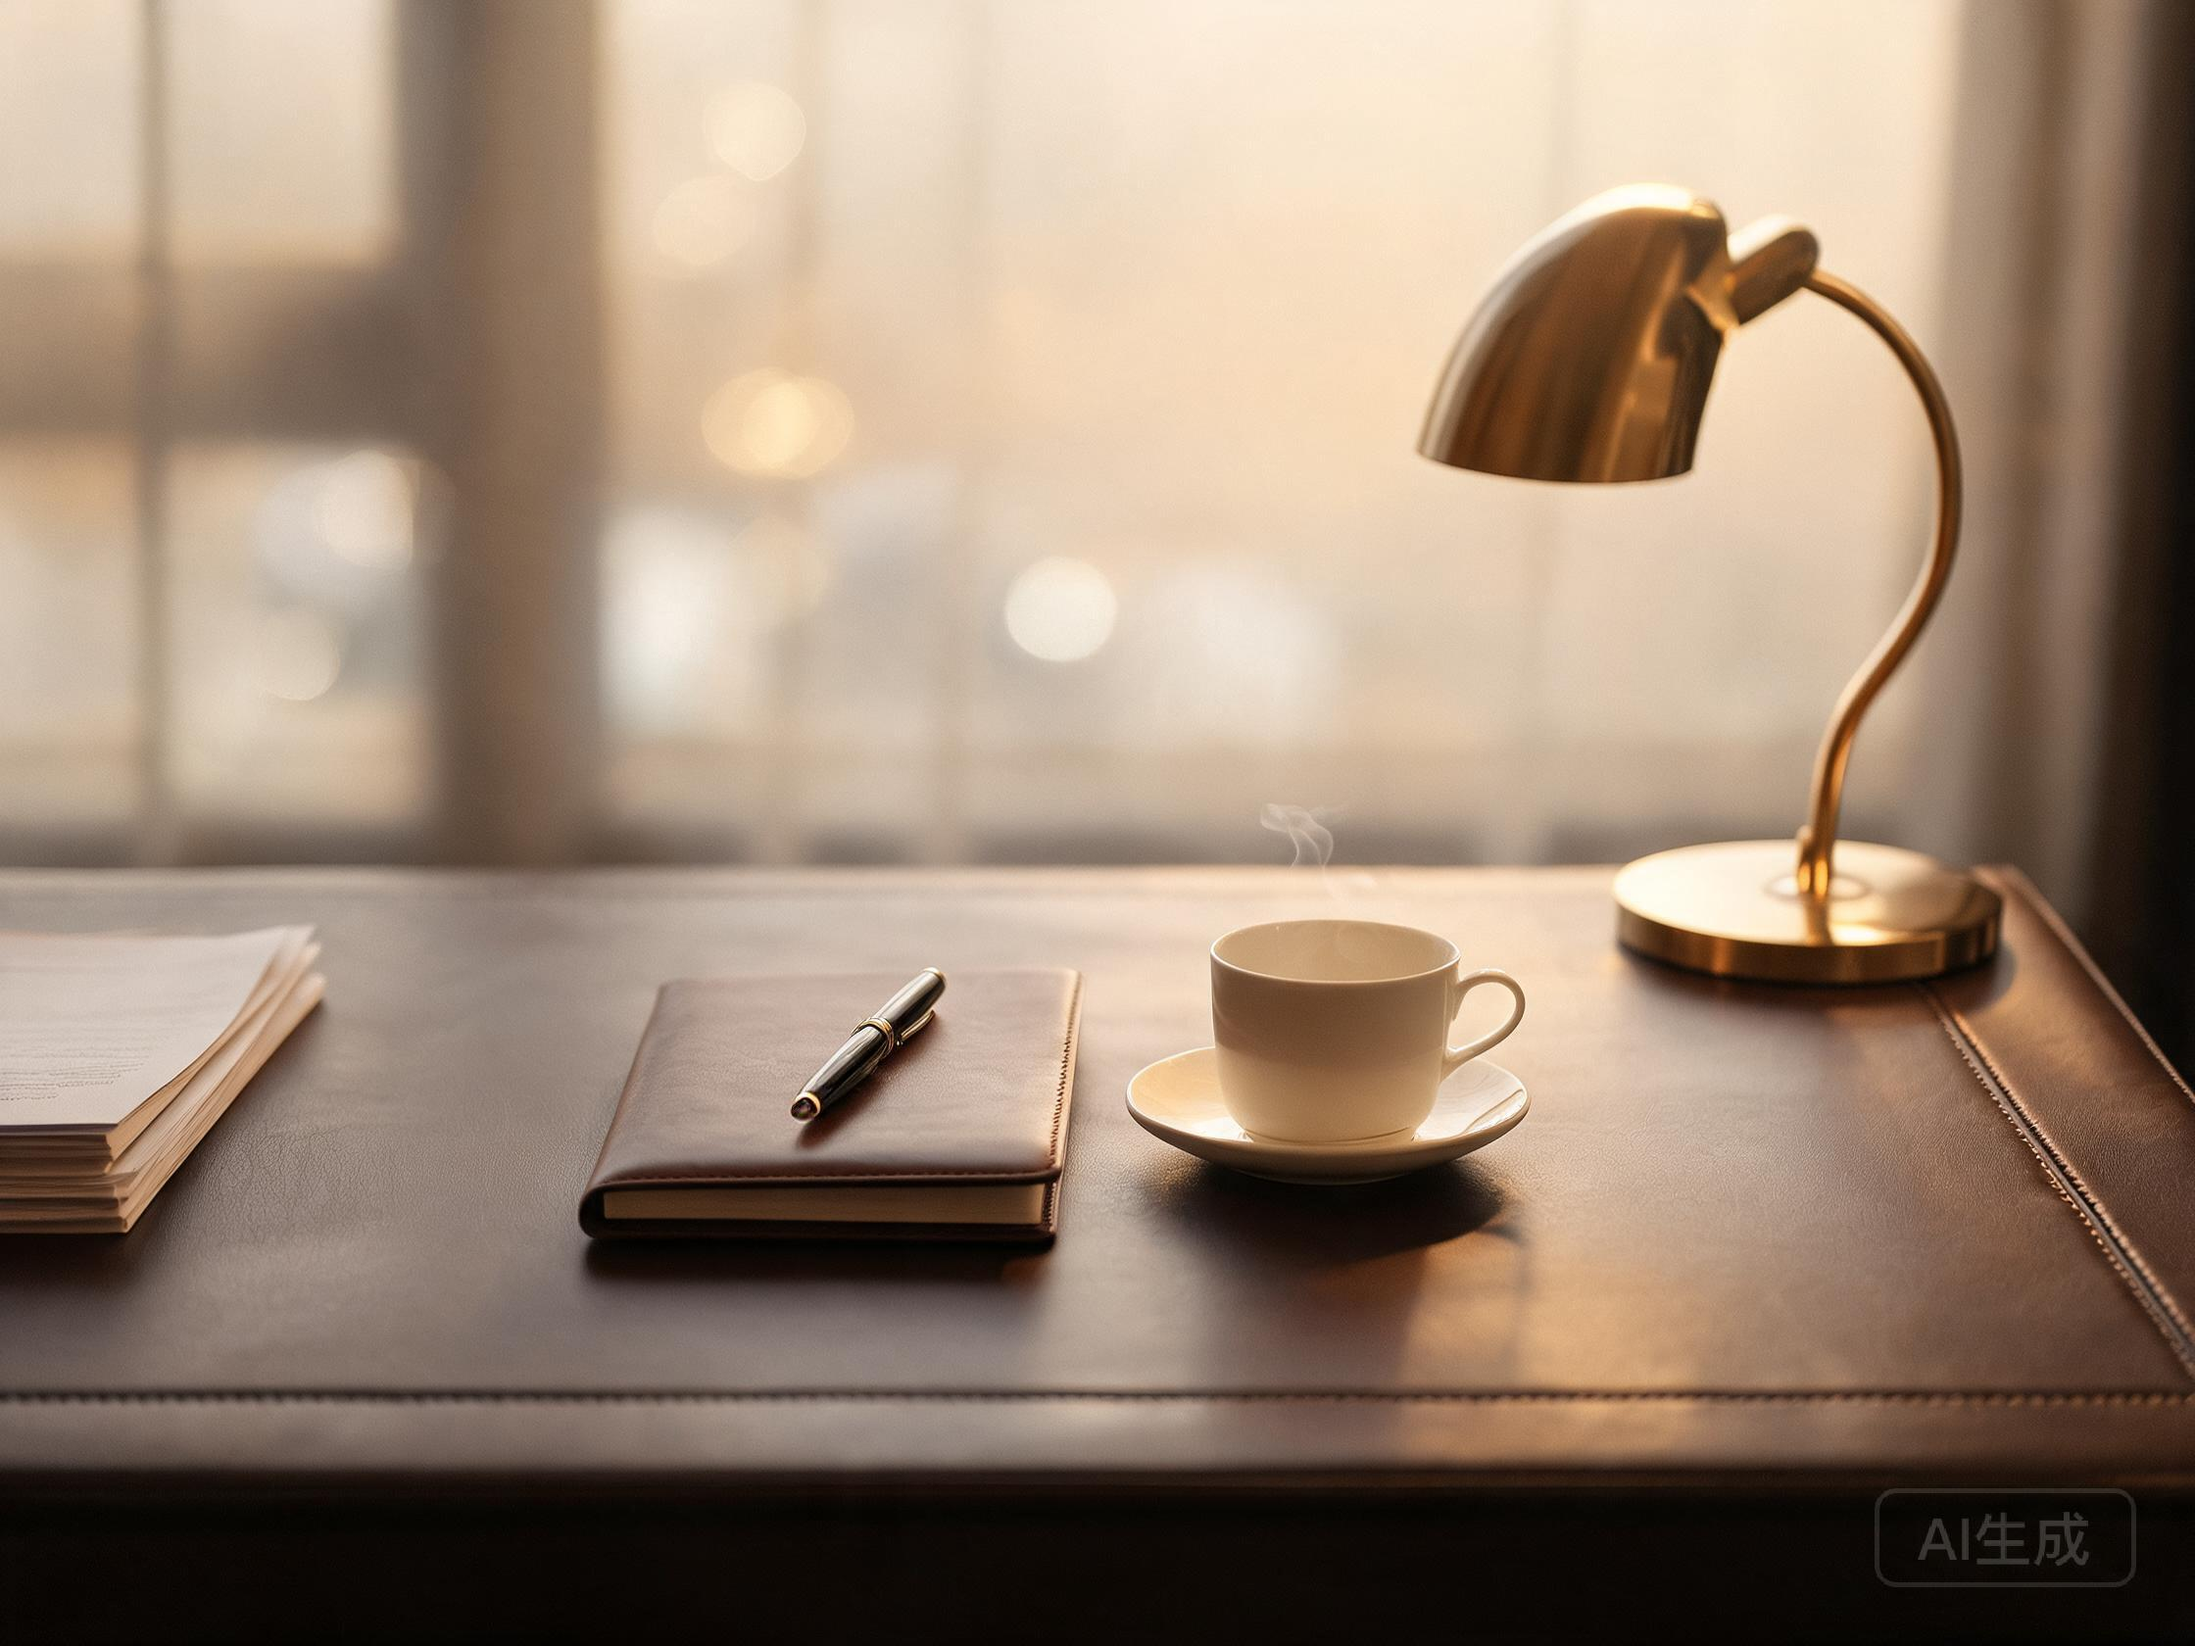
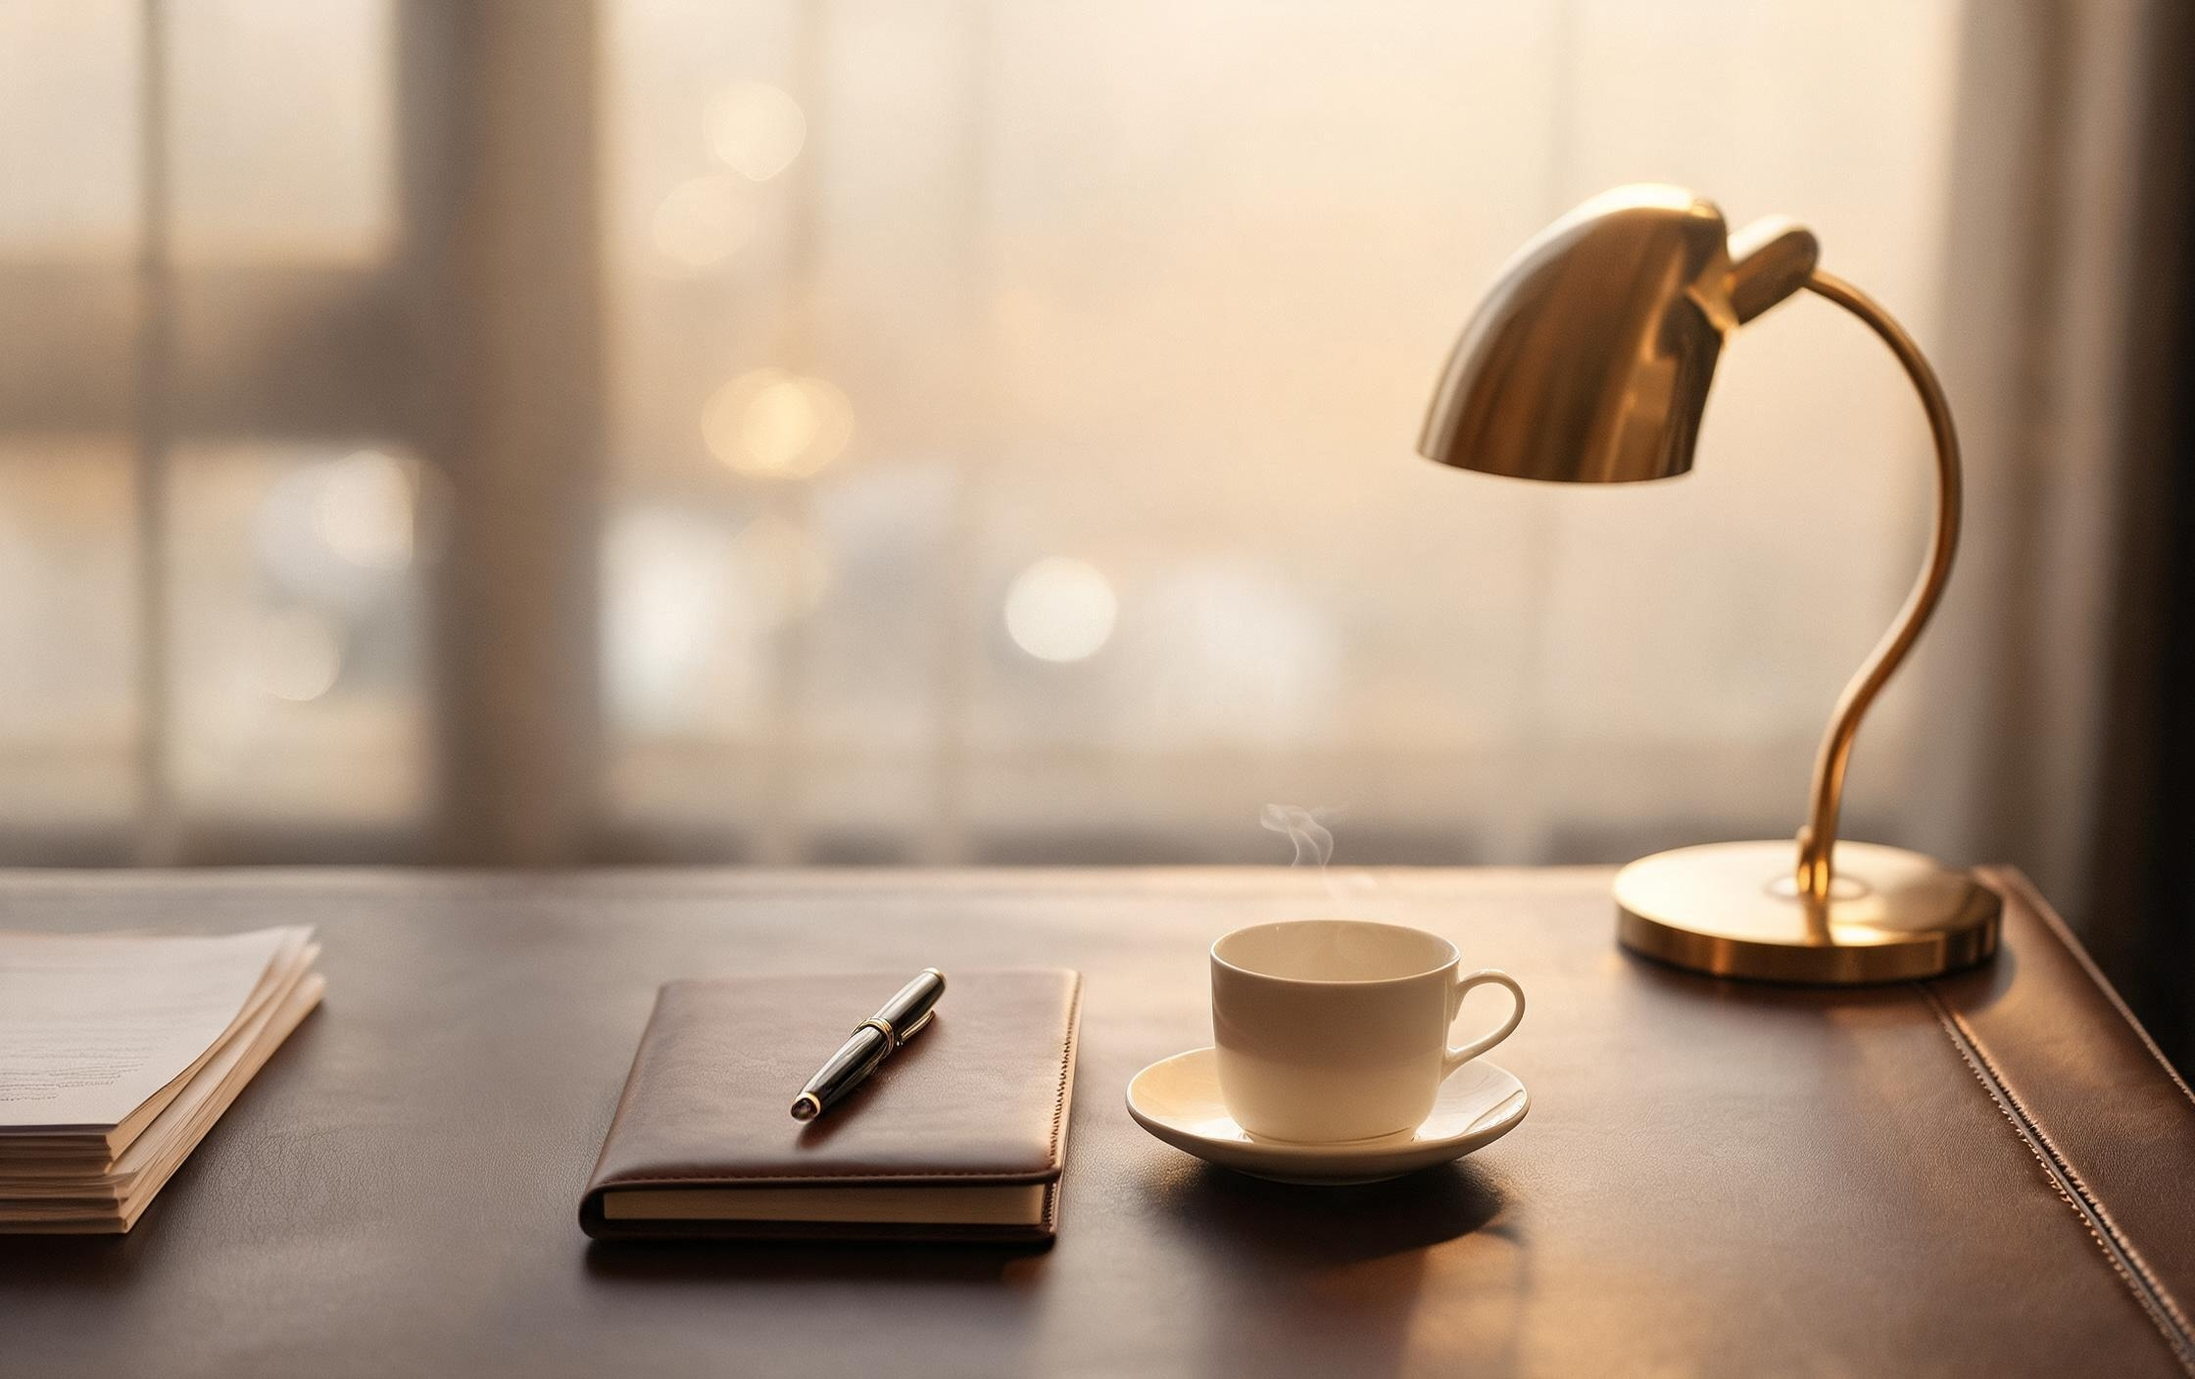
feat: 去掉 6 张图的 AI 生成水印（裁底部 10%）；首页 RECENT EXHIBITIONS 轮播加小圆点指示器

diff --git a/index.html b/index.html
@@ -12,7 +12,7 @@
   <link rel="preconnect" href="https://fonts.gstatic.com" crossorigin />
   <link href="https://fonts.googleapis.com/css2?family=Cormorant+Garamond:wght@400;500;600;700&family=Playfair+Display:wght@400;500;600;700&family=Noto+Serif+SC:wght@300;400;500;600;700&family=Noto+Sans+SC:wght@300;400;500;700&family=Jost:wght@300;400;500;600&display=swap" rel="stylesheet" />
 
-  <link rel="stylesheet" href="css/style.css?v=20261040" />
+  <link rel="stylesheet" href="css/style.css?v=20261041" />
 </head>
 <body>
   <a class="skip-link" href="#main">跳至主要内容</a>
@@ -353,6 +353,10 @@
               <a href="contact.html" class="exhibition-link">查看回顾 →</a>
             </div>
           </article>
+        </div>
+        <div class="exhibition-dots" id="exhibitionDots" role="tablist" aria-label="展会轮播选择">
+          <button class="exhibition-dot active" role="tab" aria-selected="true" aria-label="第 1 场"></button>
+          <button class="exhibition-dot" role="tab" aria-selected="false" aria-label="第 2 场"></button>
         </div>
         </div>
       </div>
@@ -745,7 +749,7 @@
       });
     })();
   </script>
-  <script src="js/main.js?v=20261040"></script>
+  <script src="js/main.js?v=20261041"></script>
   <script>
     (function () {
       var carousels = document.querySelectorAll('.contact-carousel');

diff --git a/product-detail.html b/product-detail.html
@@ -11,7 +11,7 @@
   <link rel="preconnect" href="https://fonts.gstatic.com" crossorigin />
   <link href="https://fonts.googleapis.com/css2?family=Cormorant+Garamond:wght@400;500;600;700&family=Playfair+Display:wght@400;500;600;700&family=Noto+Serif+SC:wght@300;400;500;600;700&family=Noto+Sans+SC:wght@300;400;500;700&family=Jost:wght@300;400;500;600&display=swap" rel="stylesheet" />
 
-  <link rel="stylesheet" href="css/style.css?v=20261040" />
+  <link rel="stylesheet" href="css/style.css?v=20261041" />
 </head>
 <body>
   <a class="skip-link" href="#main">跳至主要内容</a>
@@ -305,7 +305,7 @@
     </div>
   </footer>
 
-  <script src="js/main.js?v=20261040"></script>
+  <script src="js/main.js?v=20261041"></script>
   <!-- 灯箱 -->
   <div class="detail-lightbox" id="lightbox" onclick="closeLightbox(event)">
     <button class="lb-close" type="button" aria-label="关闭" onclick="closeLightbox(event)">&#10005;</button>
@@ -319,7 +319,7 @@
       <span class="lb-zoom-info" id="lbZoomInfo">100%</span>
     </div>
   </div>
-  <script src="js/main.js?v=20261040"></script>
+  <script src="js/main.js?v=20261041"></script>
   <script src="js/products-db.js?v=20261036"></script>
   <script>
     var detailImages = [];

diff --git a/js/main.js b/js/main.js
@@ -95,6 +95,7 @@
   var exList = doc.getElementById("exhibitionList");
   if (exList) {
     var exItems = exList.querySelectorAll(".exhibition-item");
+    var exDots = doc.querySelectorAll(".exhibition-dot");
     var exPrev = doc.getElementById("exhibitionPrev");
     var exNext = doc.getElementById("exhibitionNext");
     var exIndex = 0;
@@ -103,6 +104,10 @@
     function showExhibition(idx) {
       exIndex = idx;
       exList.style.transform = "translateX(-" + idx * 100 + "%)";
+      exDots.forEach(function (dot, i) {
+        dot.classList.toggle("active", i === idx);
+        dot.setAttribute("aria-selected", i === idx ? "true" : "false");
+      });
     }
 
     function restartExTimer() {
@@ -146,6 +151,13 @@
         exTouchX = null;
         restartExTimer();
       }, { passive: true });
+
+      exDots.forEach(function (dot, i) {
+        dot.addEventListener("click", function () {
+          showExhibition(i);
+          restartExTimer();
+        });
+      });
 
       /* 暂停自动轮播：鼠标悬停时 */
       var exSlider = doc.getElementById("exhibitionSlider");

diff --git a/css/style.css b/css/style.css
@@ -3308,6 +3308,33 @@ address { font-style: normal; }
 }
 /* RECENT EXHIBITIONS 翻页按钮 */
 #exhibition .grid-nav-btn svg { stroke-width: 2.4; }
+/* RECENT EXHIBITIONS 小圆点指示器 */
+.exhibition-dots {
+  display: flex;
+  justify-content: center;
+  gap: 7px;
+  margin-top: clamp(20px, 2.5vw, 32px);
+  margin-bottom: 8px;
+}
+.exhibition-dot {
+  width: 7px;
+  height: 7px;
+  padding: 0;
+  border-radius: 50%;
+  border: 1px solid rgba(84, 64, 40, 0.38);
+  background: transparent;
+  cursor: pointer;
+  transition: background var(--dur) var(--ease), border-color var(--dur) var(--ease);
+}
+.exhibition-dot:hover { border-color: var(--brown); }
+.exhibition-dot.active {
+  background: rgba(84, 64, 40, 0.72);
+  border-color: rgba(84, 64, 40, 0.72);
+}
+@media (max-width: 768px) {
+  .exhibition-dots { margin-top: 18px; }
+  .exhibition-dot { width: 6px; height: 6px; }
+}
 .exhibition-figure {
   position: relative;
   aspect-ratio: 4 / 3;

diff --git a/contact.html b/contact.html
@@ -11,7 +11,7 @@
   <link rel="preconnect" href="https://fonts.gstatic.com" crossorigin />
   <link href="https://fonts.googleapis.com/css2?family=Cormorant+Garamond:wght@400;500;600;700&family=Playfair+Display:wght@400;500;600;700&family=Noto+Serif+SC:wght@300;400;500;600;700&family=Noto+Sans+SC:wght@300;400;500;700&family=Jost:wght@300;400;500;600&display=swap" rel="stylesheet" />
 
-  <link rel="stylesheet" href="css/style.css?v=20261040" />
+  <link rel="stylesheet" href="css/style.css?v=20261041" />
 </head>
 <body class="page-contact">
   <a class="skip-link" href="#main">跳至主要内容</a>
@@ -414,7 +414,7 @@
   </footer>
 
   <script src="js/messages-db.js?v=20261028"></script>
-  <script src="js/main.js?v=20261040"></script>
+  <script src="js/main.js?v=20261041"></script>
   <script>
     // 在线留言：提交后写入本地数据库，后台"留言信息"可查看
     (function () {

diff --git a/bedding-duvet-cover-pillowcase-set.html b/bedding-duvet-cover-pillowcase-set.html
@@ -11,7 +11,7 @@
   <link rel="preconnect" href="https://fonts.gstatic.com" crossorigin />
   <link href="https://fonts.googleapis.com/css2?family=Cormorant+Garamond:wght@400;500;600;700&family=Playfair+Display:wght@400;500;600;700&family=Noto+Serif+SC:wght@300;400;500;600;700&family=Noto+Sans+SC:wght@300;400;500;700&family=Jost:wght@300;400;500;600&display=swap" rel="stylesheet" />
 
-  <link rel="stylesheet" href="css/style.css?v=20261040" />
+  <link rel="stylesheet" href="css/style.css?v=20261041" />
 </head>
 <body>
   <a class="skip-link" href="#main">跳至主要内容</a>
@@ -264,7 +264,7 @@
     </div>
   </footer>
 
-  <script src="js/main.js?v=20261040"></script>
+  <script src="js/main.js?v=20261041"></script>
   <script src="js/products-db.js?v=20261036"></script>
   <script>
     /* 从后台数据库动态加载 BEDDING-Duvet Cover & Pillowcase Set 产品 */

diff --git a/bedding-mattress-protector.html b/bedding-mattress-protector.html
@@ -11,7 +11,7 @@
   <link rel="preconnect" href="https://fonts.gstatic.com" crossorigin />
   <link href="https://fonts.googleapis.com/css2?family=Cormorant+Garamond:wght@400;500;600;700&family=Playfair+Display:wght@400;500;600;700&family=Noto+Serif+SC:wght@300;400;500;600;700&family=Noto+Sans+SC:wght@300;400;500;700&family=Jost:wght@300;400;500;600&display=swap" rel="stylesheet" />
 
-  <link rel="stylesheet" href="css/style.css?v=20261040" />
+  <link rel="stylesheet" href="css/style.css?v=20261041" />
 </head>
 <body>
   <a class="skip-link" href="#main">跳至主要内容</a>
@@ -264,7 +264,7 @@
     </div>
   </footer>
 
-  <script src="js/main.js?v=20261040"></script>
+  <script src="js/main.js?v=20261041"></script>
   <script src="js/products-db.js?v=20261036"></script>
   <script>
     /* 从后台数据库动态加载 BEDDING-Mattress protector 产品 */

diff --git a/curtains-grommet.html b/curtains-grommet.html
@@ -11,7 +11,7 @@
   <link rel="preconnect" href="https://fonts.gstatic.com" crossorigin />
   <link href="https://fonts.googleapis.com/css2?family=Cormorant+Garamond:wght@400;500;600;700&family=Playfair+Display:wght@400;500;600;700&family=Noto+Serif+SC:wght@300;400;500;600;700&family=Noto+Sans+SC:wght@300;400;500;700&family=Jost:wght@300;400;500;600&display=swap" rel="stylesheet" />
 
-  <link rel="stylesheet" href="css/style.css?v=20261040" />
+  <link rel="stylesheet" href="css/style.css?v=20261041" />
 </head>
 <body>
   <a class="skip-link" href="#main">跳至主要内容</a>
@@ -262,7 +262,7 @@
     </div>
   </footer>
 
-  <script src="js/main.js?v=20261040"></script>
+  <script src="js/main.js?v=20261041"></script>
   <script src="js/products-db.js?v=20261036"></script>
   <script>
     /* 从后台数据库动态加载 Grommet Curtains 产品 */

diff --git a/bedding-cushion.html b/bedding-cushion.html
@@ -11,7 +11,7 @@
   <link rel="preconnect" href="https://fonts.gstatic.com" crossorigin />
   <link href="https://fonts.googleapis.com/css2?family=Cormorant+Garamond:wght@400;500;600;700&family=Playfair+Display:wght@400;500;600;700&family=Noto+Serif+SC:wght@300;400;500;600;700&family=Noto+Sans+SC:wght@300;400;500;700&family=Jost:wght@300;400;500;600&display=swap" rel="stylesheet" />
 
-  <link rel="stylesheet" href="css/style.css?v=20261040" />
+  <link rel="stylesheet" href="css/style.css?v=20261041" />
 </head>
 <body>
   <a class="skip-link" href="#main">跳至主要内容</a>
@@ -264,7 +264,7 @@
     </div>
   </footer>
 
-  <script src="js/main.js?v=20261040"></script>
+  <script src="js/main.js?v=20261041"></script>
   <script src="js/products-db.js?v=20261036"></script>
   <script>
     /* 从后台数据库动态加载 BEDDING-Cushion 产品 */

diff --git a/curtains-track.html b/curtains-track.html
@@ -11,7 +11,7 @@
   <link rel="preconnect" href="https://fonts.gstatic.com" crossorigin />
   <link href="https://fonts.googleapis.com/css2?family=Cormorant+Garamond:wght@400;500;600;700&family=Playfair+Display:wght@400;500;600;700&family=Noto+Serif+SC:wght@300;400;500;600;700&family=Noto+Sans+SC:wght@300;400;500;700&family=Jost:wght@300;400;500;600&display=swap" rel="stylesheet" />
 
-  <link rel="stylesheet" href="css/style.css?v=20261040" />
+  <link rel="stylesheet" href="css/style.css?v=20261041" />
 </head>
 <body>
   <a class="skip-link" href="#main">跳至主要内容</a>
@@ -262,7 +262,7 @@
     </div>
   </footer>
 
-  <script src="js/main.js?v=20261040"></script>
+  <script src="js/main.js?v=20261041"></script>
   <script src="js/products-db.js?v=20261036"></script>
   <script>
     /* 从后台数据库动态加载 Track Curtains 产品 */

diff --git a/bedding-blanket.html b/bedding-blanket.html
@@ -11,7 +11,7 @@
   <link rel="preconnect" href="https://fonts.gstatic.com" crossorigin />
   <link href="https://fonts.googleapis.com/css2?family=Cormorant+Garamond:wght@400;500;600;700&family=Playfair+Display:wght@400;500;600;700&family=Noto+Serif+SC:wght@300;400;500;600;700&family=Noto+Sans+SC:wght@300;400;500;700&family=Jost:wght@300;400;500;600&display=swap" rel="stylesheet" />
 
-  <link rel="stylesheet" href="css/style.css?v=20261040" />
+  <link rel="stylesheet" href="css/style.css?v=20261041" />
 </head>
 <body>
   <a class="skip-link" href="#main">跳至主要内容</a>
@@ -400,7 +400,7 @@
     </div>
   </footer>
 
-  <script src="js/main.js?v=20261040"></script>
+  <script src="js/main.js?v=20261041"></script>
   <script src="js/products-db.js?v=20261036"></script>
   <script>
     /* 从后台数据库动态加载产品 */

diff --git a/bedding.html b/bedding.html
@@ -11,7 +11,7 @@
   <link rel="preconnect" href="https://fonts.gstatic.com" crossorigin />
   <link href="https://fonts.googleapis.com/css2?family=Cormorant+Garamond:wght@400;500;600;700&family=Playfair+Display:wght@400;500;600;700&family=Noto+Serif+SC:wght@300;400;500;600;700&family=Noto+Sans+SC:wght@300;400;500;700&family=Jost:wght@300;400;500;600&display=swap" rel="stylesheet" />
 
-  <link rel="stylesheet" href="css/style.css?v=20261040" />
+  <link rel="stylesheet" href="css/style.css?v=20261041" />
 </head>
 <body>
   <a class="skip-link" href="#main">跳至主要内容</a>
@@ -403,7 +403,7 @@
     </div>
   </footer>
 
-  <script src="js/main.js?v=20261040"></script>
+  <script src="js/main.js?v=20261041"></script>
   <script src="js/products-db.js?v=20261036"></script>
   <script>
     /* 从后台数据库动态加载产品 */
